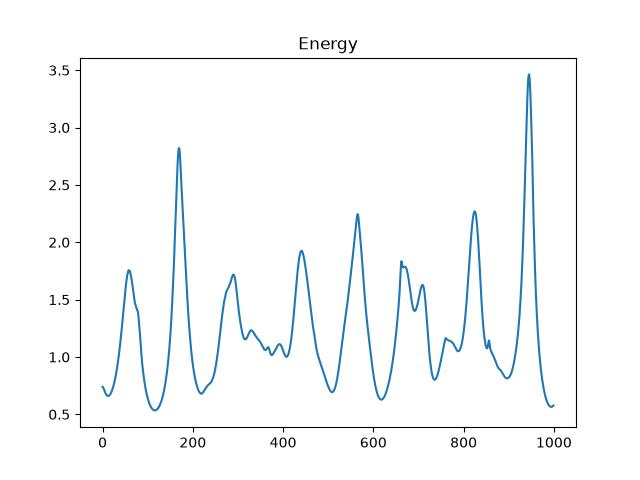
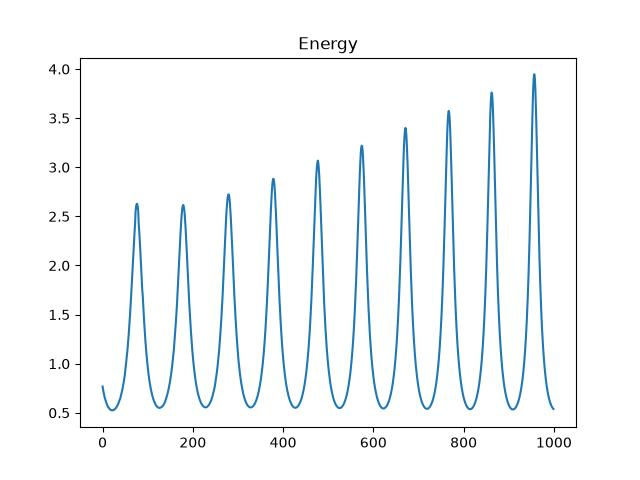
figures

diff --git a/demo_control_polycopie2024.py b/demo_control_polycopie2024.py
@@ -334,7 +334,7 @@ if __name__ == '__main__':
 
     N = int(10*wavenumber / (2*numpy.pi)) # number of points along x-axis
     M = 2 * N  # number of points along y-axis
-    level = 1 # level of the fractal
+    level = 0 # level of the fractal
     spacestep = 1.0 / N  # mesh size
     # 1/N = 2pi/5k
     # ----------------------------------------------------------------------
